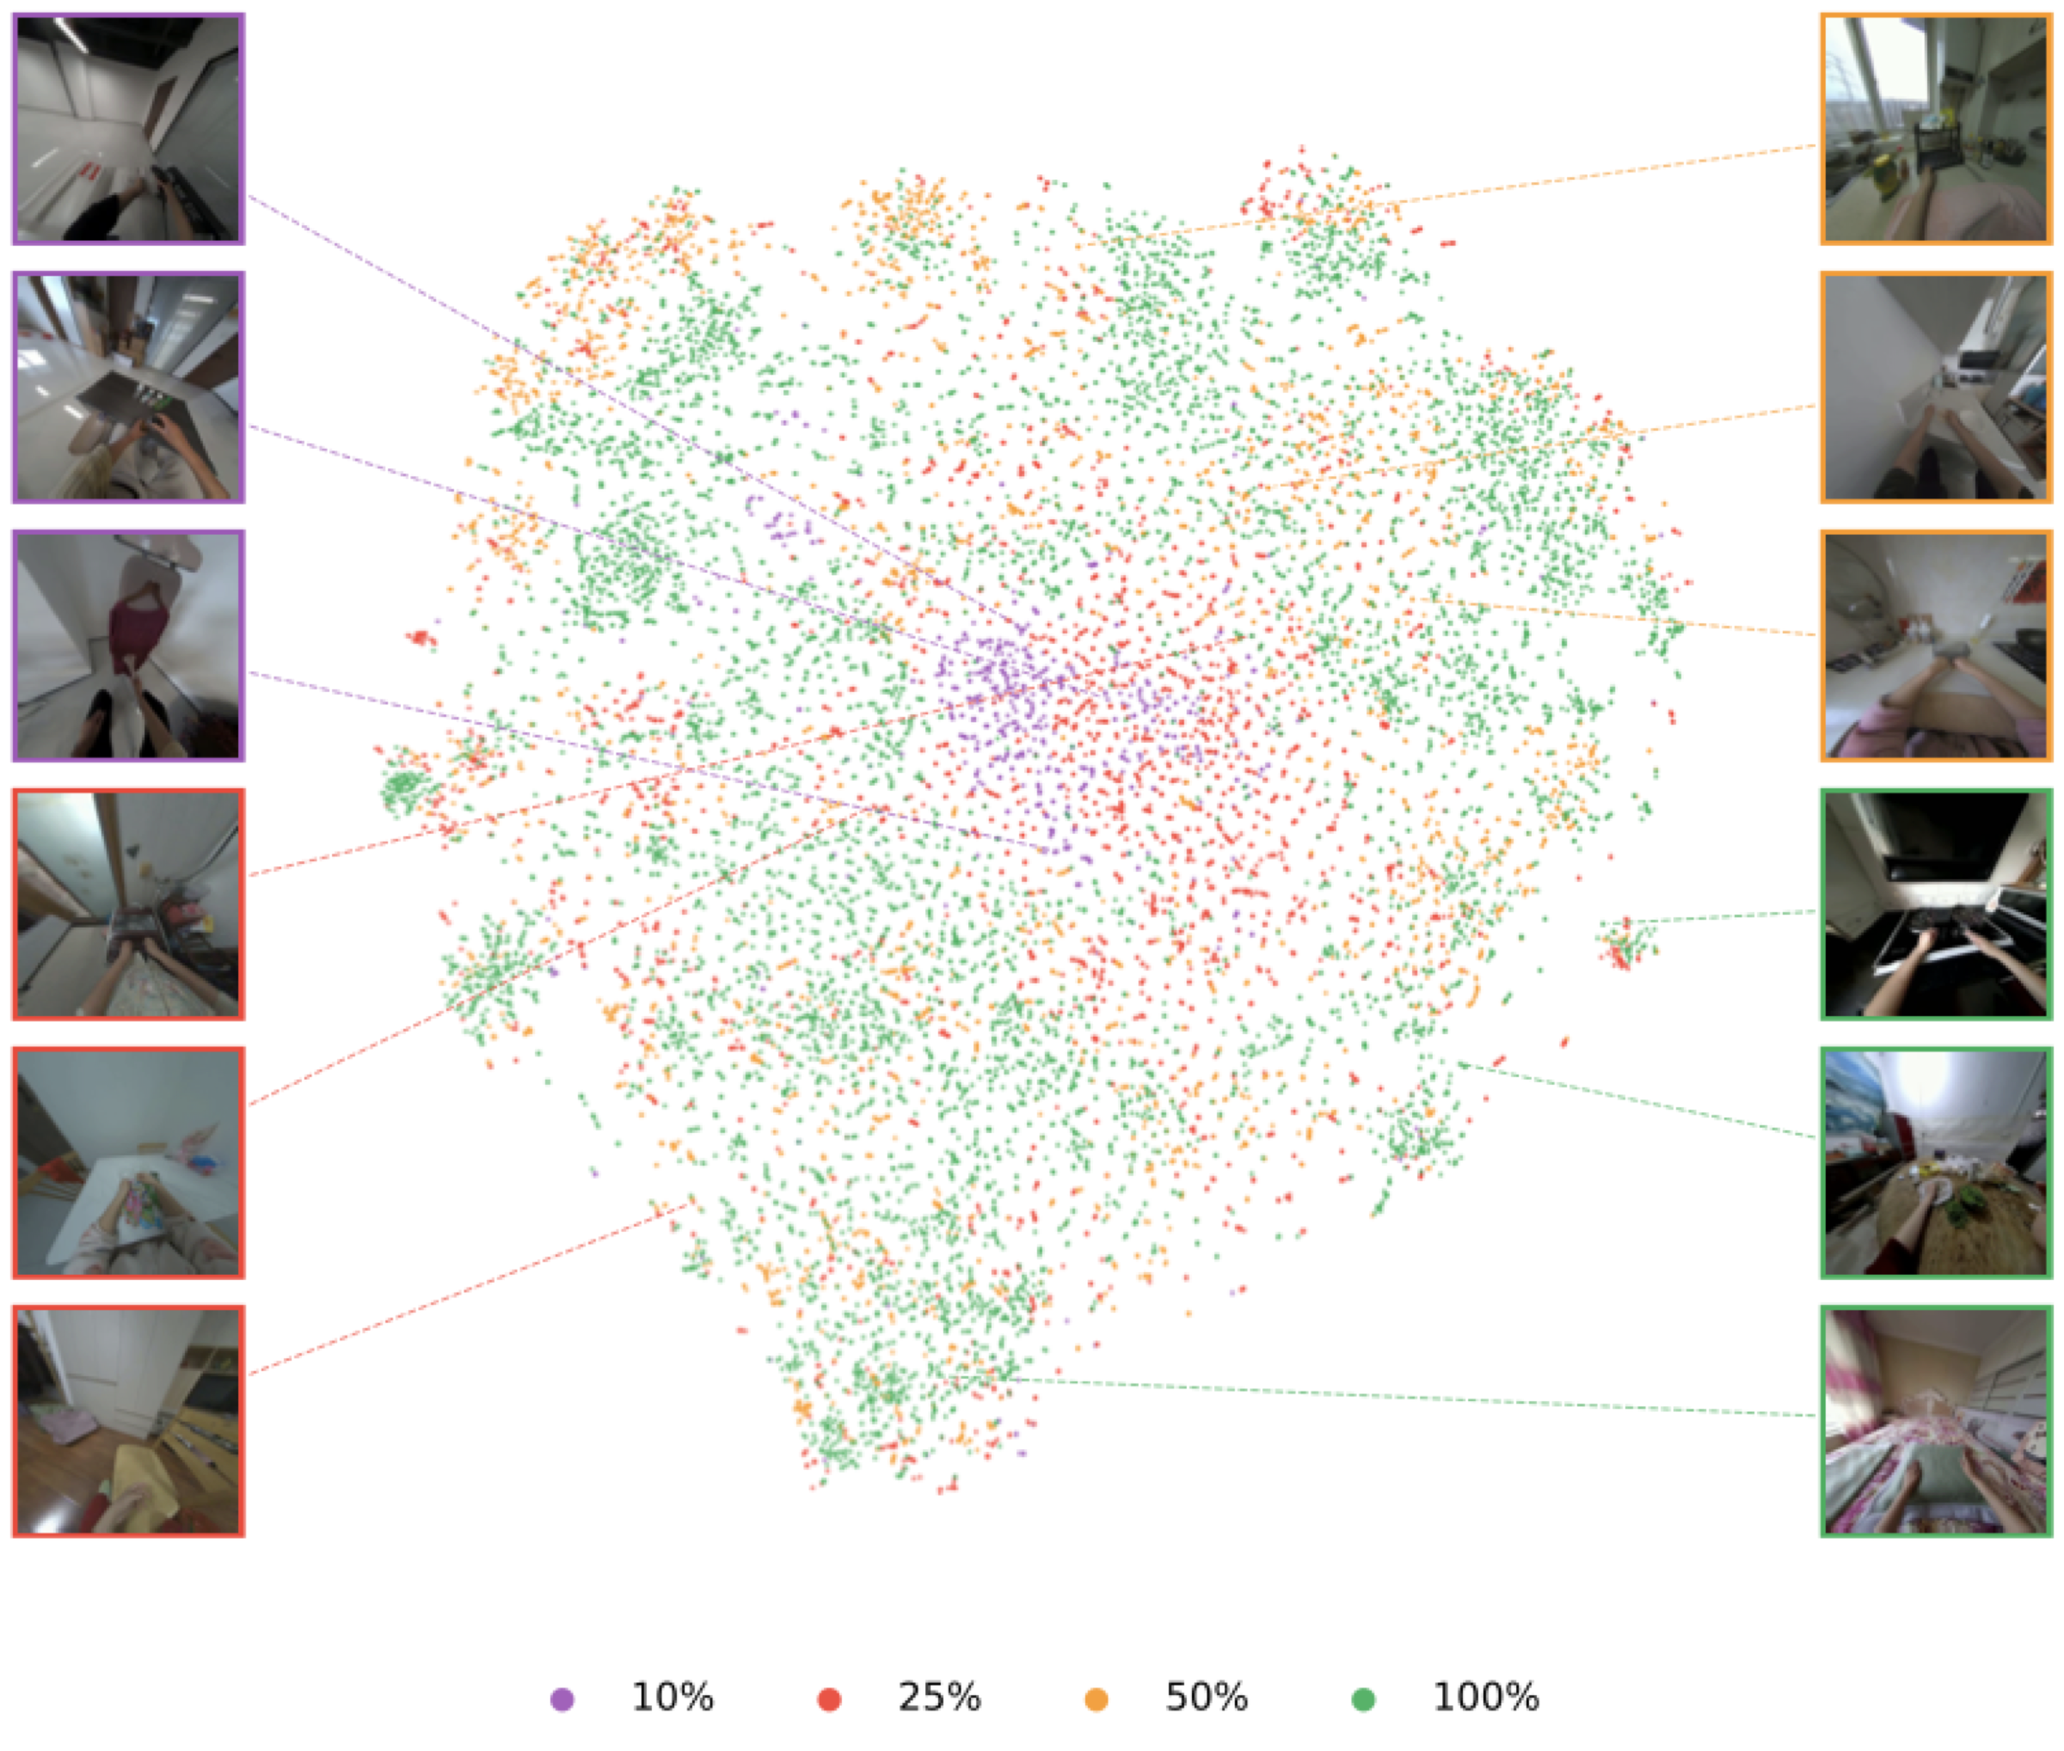
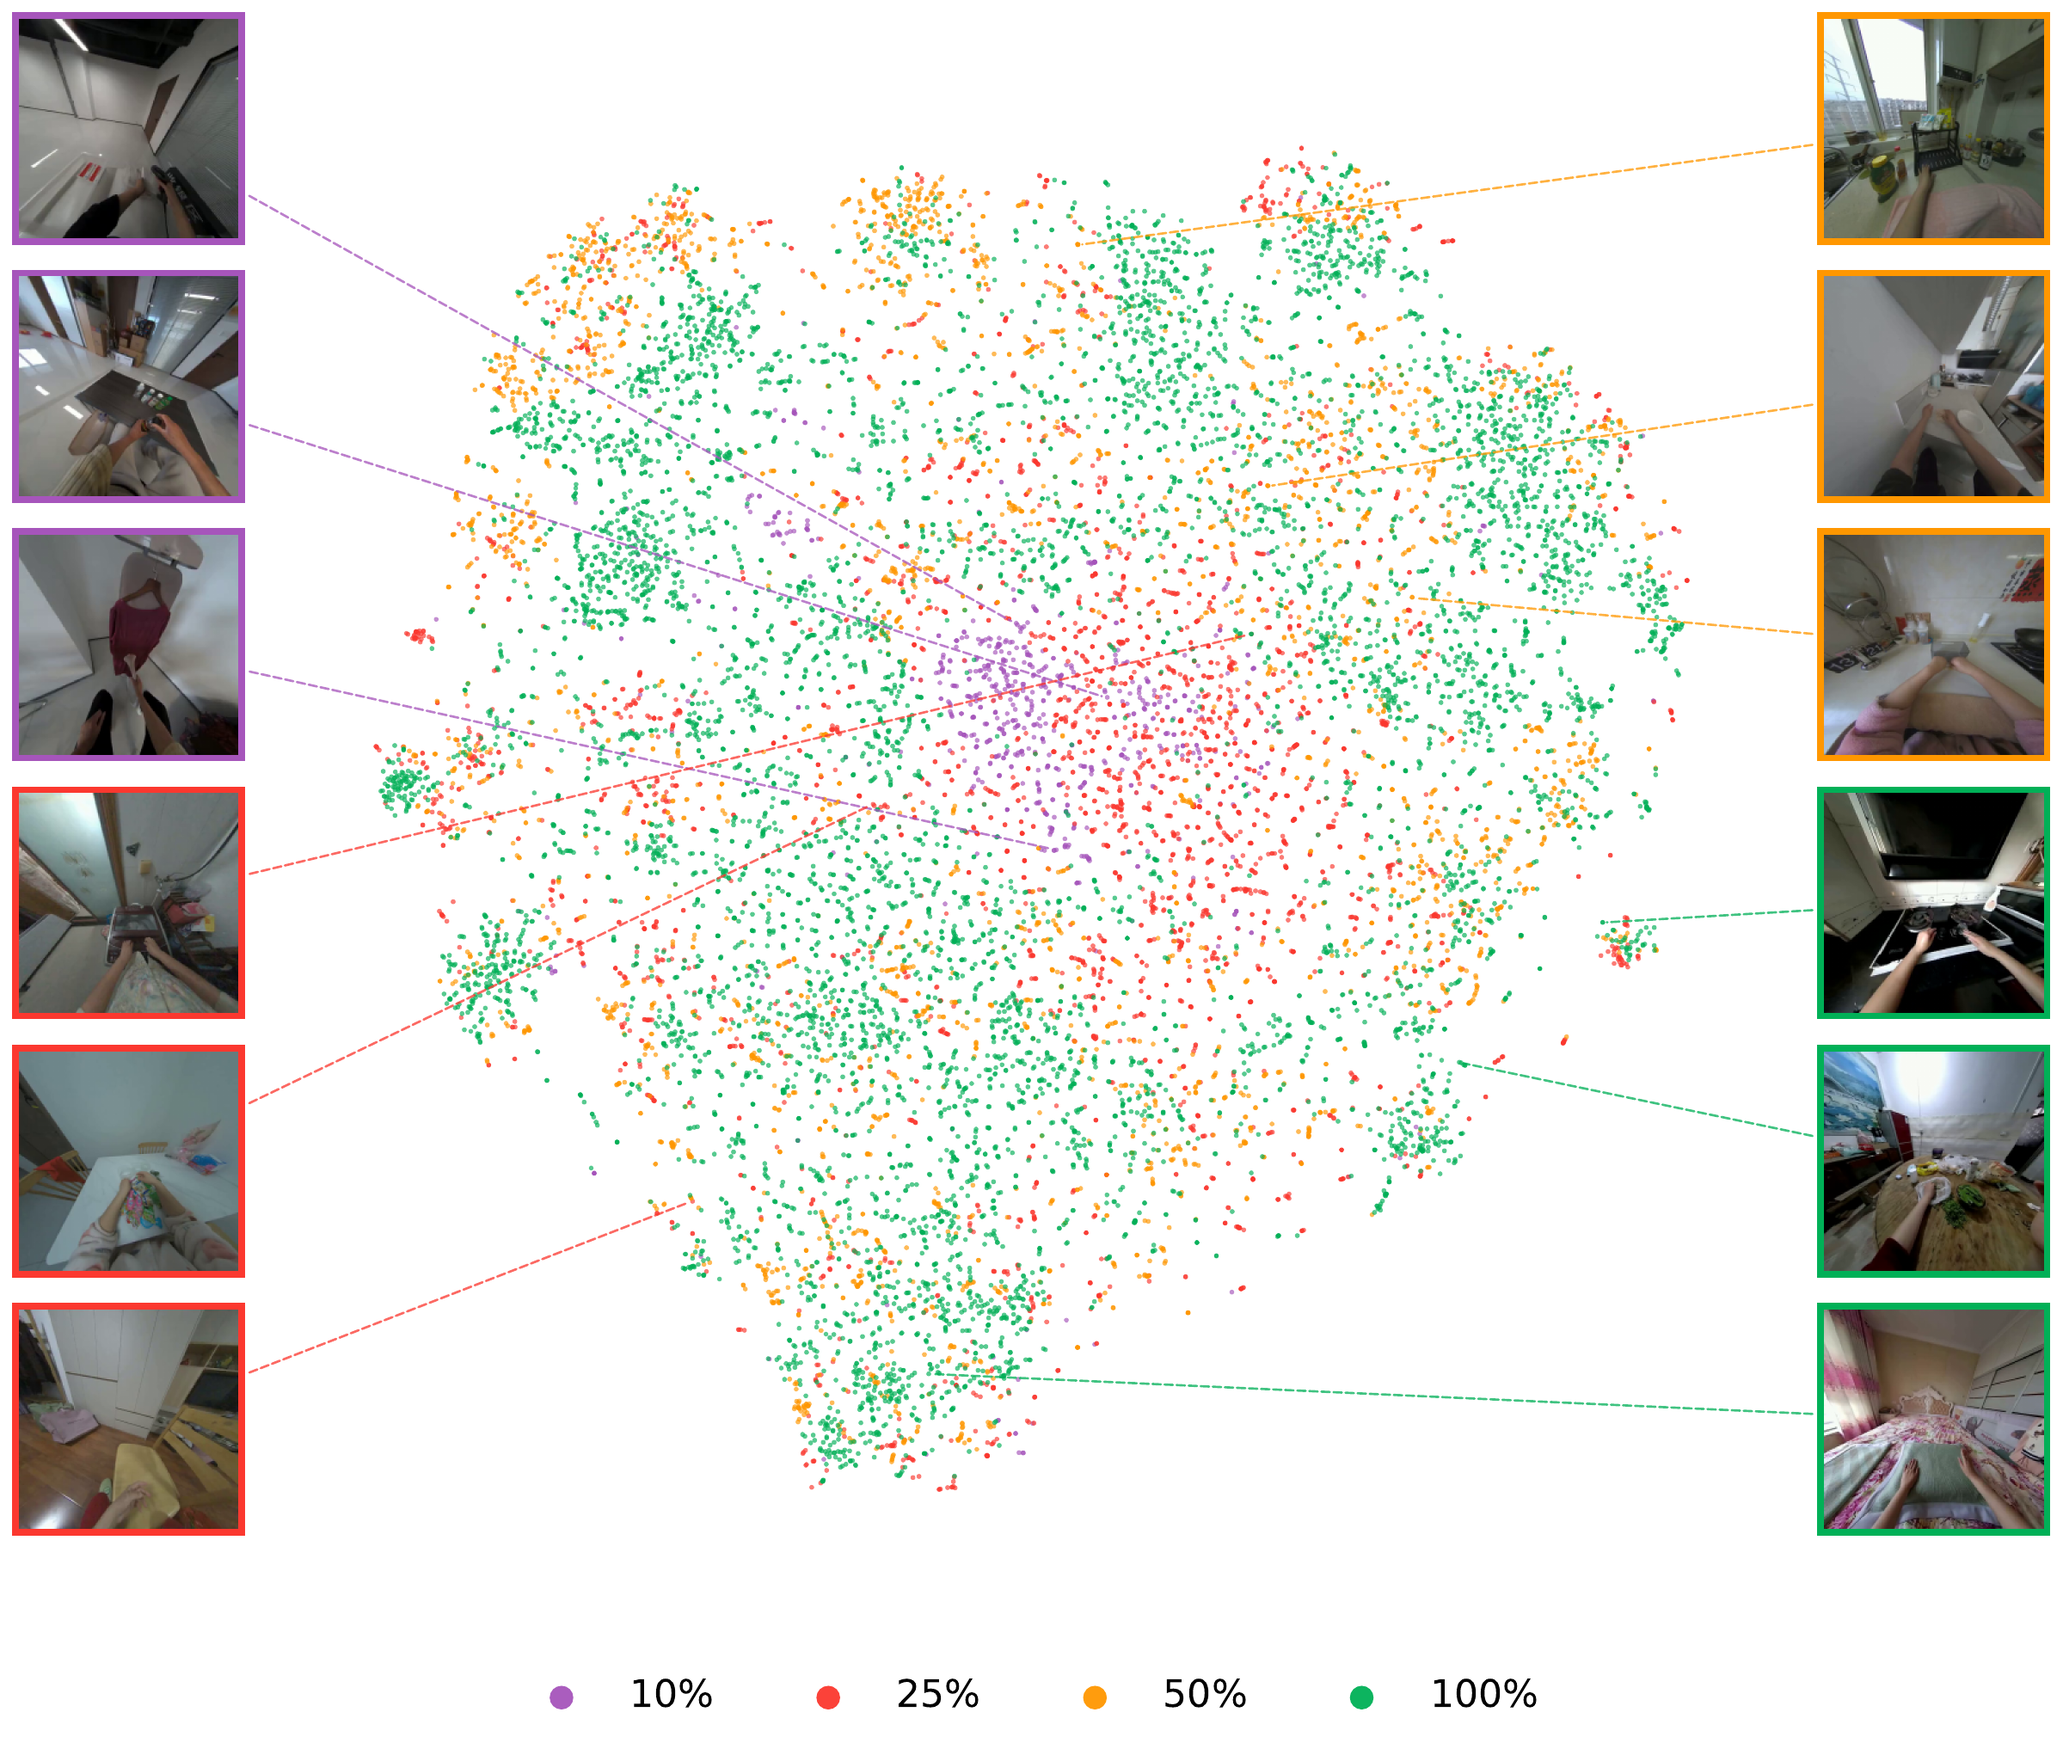
Refresh JoyAI-RA figures from source PDF

diff --git a/index.html b/index.html
@@ -65,16 +65,16 @@
             <img
               src="assets/embedding-visualization.png"
               alt=""
-              width="2400"
-              height="2037"
+              width="2399"
+              height="2034"
             />
           </figure>
           <figure class="gallery-card gallery-card-three">
             <img
               src="assets/experiment-setting.png"
               alt=""
-              width="2600"
-              height="1217"
+              width="2880"
+              height="1620"
             />
           </figure>
         </div>
@@ -473,8 +473,8 @@
             <img
               src="assets/experiment-setting.png"
               alt="Real-World AgiBot Benchmark settings with seen pick-and-place and long-horizon tasks plus unseen object, spatial, background, and illumination variations"
-              width="2600"
-              height="1217"
+              width="2880"
+              height="1620"
               loading="lazy"
             />
             <button
@@ -510,8 +510,8 @@
               <img
                 src="assets/embedding-visualization.png"
                 alt="Action-centric embedding distribution of EgoLive at 10, 25, 50, and 100 percent data scales"
-                width="2400"
-                height="2037"
+                width="2399"
+                height="2034"
                 loading="lazy"
               />
               <figcaption>
@@ -565,8 +565,8 @@
             <img
               src="assets/rl-inner-outer-loop.png"
               alt="Inner-outer loop reinforcement learning with edge-server residual adaptation and central-server VLWA updates"
-              width="2600"
-              height="1116"
+              width="2606"
+              height="1119"
               loading="lazy"
             />
           </figure>

diff --git a/technical.html b/technical.html
@@ -249,8 +249,8 @@
           <img
             src="assets/experiment-setting.png"
             alt="Real-World AgiBot Benchmark settings with seen and unseen task settings"
-            width="2600"
-            height="1217"
+            width="2880"
+            height="1620"
             loading="lazy"
           />
           <button
@@ -342,8 +342,8 @@
             <img
               src="assets/embedding-visualization.png"
               alt="Action-centric embedding distribution of EgoLive at different data scales"
-              width="2400"
-              height="2037"
+              width="2399"
+              height="2034"
               loading="lazy"
             />
             <figcaption>
@@ -397,8 +397,8 @@
           <img
             src="assets/rl-inner-outer-loop.png"
             alt="Inner-outer loop reinforcement learning with edge-server residual adaptation and central-server VLWA updates"
-            width="2600"
-            height="1116"
+            width="2606"
+            height="1119"
             loading="lazy"
           />
         </figure>
